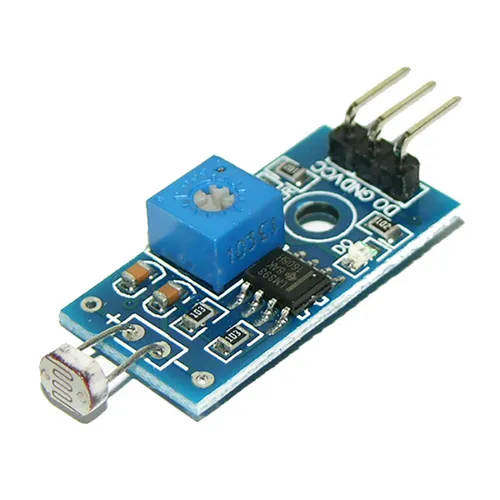
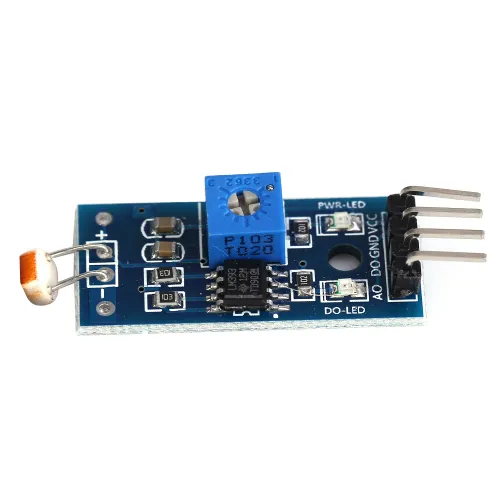
Товары только с отзывами (заменено 7 позиций), отзывы под картинками, количества, исправлены разъёмы

diff --git a/budget.html b/budget.html
@@ -65,7 +65,7 @@
   <div class="kpi"><b>396 ₽</b><span>3 садовых светильника на солнечной батарее</span></div>
   <div class="kpi"><b>132 ₽</b><span>цена одного светильника — дешевле любой сборки</span></div>
   <div class="kpi"><b>0 ₽</b><span>инструментов и проводов — ничего лишнего</span></div>
-  <div class="kpi"><b>1 132 ₽</b><span>если собирать мини-набор своими руками — дороже</span></div>
+  <div class="kpi"><b>1 298 ₽</b><span>если собирать мини-набор своими руками — дороже</span></div>
 </div>
 
 <h2>Два пути — и почему я рекомендую первый</h2>
@@ -81,7 +81,7 @@
   <tr>
     <td><b>Мини-набор своими руками</b></td>
     <td>панель 1 Вт, аккумулятор 18650, плата зарядки, датчик света, реле, светодиод, провода</td>
-    <td class="num">1 132 ₽</td>
+    <td class="num">1 298 ₽</td>
     <td>соединять по схеме, разбираться с реле</td>
     <td>дороже готового, требует аккуратности и понимания; часть деталей без проводов-перемычек не соединить</td>
   </tr>
@@ -159,18 +159,18 @@
 <table>
   <tr><th>Роль</th><th>Деталь</th><th>Цена</th><th>Доставка</th></tr>
   <tr><td>Панель</td><td>Мини солнечная панель 6 В 1 Вт 110*60 мм поликристаллическая для D</td><td class='num'>435 ₽</td><td class='num'>1 дн.</td></tr>
-<tr><td>Плата зарядки</td><td>Модуль заряда Li-ion аккумуляторов TP4056 (с защитой), гнездо Micr</td><td class='num'>65 ₽</td><td class='num'>1 дн.</td></tr>
+<tr><td>Плата зарядки</td><td>Модуль зарядки TP4056 USB Type-C с защитой,зарядное устройство для</td><td class='num'>64 ₽</td><td class='num'>1 дн.</td></tr>
 <tr><td>Аккумулятор</td><td>Аккумулятор 18650, плоский пин, Smartbuy, 3.7 V, 2200 мАч, 1 шт</td><td class='num'>146 ₽</td><td class='num'>1 дн.</td></tr>
 <tr><td>Держатель</td><td>Держатель 18650 холдер. Батарейный отсек 18650. Для 1шт под пайку.</td><td class='num'>99 ₽</td><td class='num'>5 дн.</td></tr>
-<tr><td>Датчик света</td><td>Датчик света на фоторезисторе, пороговый</td><td class='num'>108 ₽</td><td class='num'>1 дн.</td></tr>
-<tr><td>Реле</td><td>Модуль реле - 5 вольт 1 реле Ардуин</td><td class='num'>76 ₽</td><td class='num'>3 дн.</td></tr>
+<tr><td>Датчик света</td><td>Модуль фоторезистора</td><td class='num'>246 ₽</td><td class='num'>3 дн.</td></tr>
+<tr><td>Реле</td><td>Релейный модуль с опторазвязкой 5В 10A, 1 канал</td><td class='num'>105 ₽</td><td class='num'>1 дн.</td></tr>
 <tr><td>Светодиод</td><td>Компактный светодиодный USB светильник для ноутбука 3LED B41 теплы</td><td class='num'>79 ₽</td><td class='num'>1 дн.</td></tr>
 <tr><td>Провода</td><td>Провод соединительный мама-мама "Dupont", 10 см, 40 шт</td><td class='num'>124 ₽</td><td class='num'>1 дн.</td></tr>
-  <tr class="total"><td colspan="2">Итого</td><td class="num">1 132 ₽</td><td></td></tr>
+  <tr class="total"><td colspan="2">Итого</td><td class="num">1 298 ₽</td><td></td></tr>
 </table>
 <div class="box warn">
-  <b>Что тут честно сказать.</b> Без проводов-перемычек набор стоит 1 008 ₽ —
-  в тысячу влезает. С ними — 1 132 ₽, то есть <b>дороже трёх готовых светильников</b>
+  <b>Что тут честно сказать.</b> Без проводов-перемычек набор стоит 1 174 ₽ —
+  в тысячу влезает. С ними — 1 298 ₽, то есть <b>дороже трёх готовых светильников</b>
   (396 ₽). Плюс есть два подводных камня, которых нет у готового изделия:
   модуль реле на 5 В от аккумулятора 3,7 В может не срабатывать (нужен либо 3-вольтовый,
   либо питание от двух элементов), а панель на 1 Вт даёт очень мало — зимой почти ничего.
@@ -202,7 +202,7 @@
       и датчиком движения за 660 ₽: светит заметно сильнее, питается от своей панели.</li>
   <li><b>Нужна лампа внутри дома</b> — это уже полный вариант с аккумулятором на 7 А·ч
       и низковольтной лампой: 3 368 ₽, <a href="index.html">страница с расчётом и схемой</a>.</li>
-  <li><b>Просто хочется спаять/собрать самому</b> — смета выше 1 132 ₽, будет дороже
+  <li><b>Просто хочется спаять/собрать самому</b> — смета выше 1 298 ₽, будет дороже
       готового и с подводными камнями. Но если интересно именно собрать — это рабочий путь.</li>
 </ol>
 

diff --git a/index.html b/index.html
@@ -75,7 +75,7 @@
   Никакой пайки: все соединения на винтовых клеммах и болтах. Цены и сроки доставки — Ozon,
   на 19.09.2026.</p>
   <div class="kpis">
-    <div class="kpi"><b>3 368 ₽</b><span>весь комплект по этому списку</span></div>
+    <div class="kpi"><b>3 360 ₽</b><span>весь комплект по этому списку</span></div>
     <div class="kpi"><b>5 Вт</b><span>лампа; 6 часов после заката = 30 Вт·ч в сутки</span></div>
     <div class="kpi"><b>1.4 сут</b><span>автономия на АКБ 7 А·ч в режиме 6 часов</span></div>
     <div class="kpi"><b>30 Вт</b><span>панель даёт 52 Вт·ч в сутки в сентябре–октябре</span></div>
@@ -430,34 +430,18 @@
       </article>
 
       <article class="card">
-        <div class="card-img"><img src="img/wire_b.webp" alt="Провод ПуГВ 1.5 синий медный многожильный (3м)"></div>
-        <div class="rating">★3.0 · 2 отзыва</div>
+        <div class="card-img"><img src="img/cable.webp" alt="Кабель акустический двужильный 2х1,5 длина 3 метров; провода для автозвука; акус"></div>
+        <div class="rating">★4.9 · 9 568 отзывов</div>
         <div class="card-body">
-          <span class="role">Провод (минус)</span>
-          <h3>Провод ПуГВ 1.5 синий медный многожильный (3м)</h3>
-          <p class="specs">ПуГВ 1,5 мм², 3 м, синий</p>
-          <p class="note">Медный многожильный, 1,5 мм² хватает с запасом</p>
+          <span class="role">Кабель (плюс и минус)</span>
+          <h3>Кабель акустический двужильный 2х1,5 длина 3 метров; провода для автозвука; акустический провод ШВПМ</h3>
+          <p class="specs">Двужильный медный кабель 2×1,5 мм², 3 метра</p>
+          <p class="note">Один кабель вместо двух проводов: жилы идут на плюс и минус, сечение 1,5 мм² с запасом по току</p>
           <div class="row">
-            <span class="price">122 ₽</span>
-            <span class="days">доставка 7 дн.</span>
+            <span class="price">252 ₽</span>
+            <span class="days">доставка 1 дн.</span>
           </div>
-          <a class="btn" href="https://www.ozon.ru/product/provod-pugv-1-5-siniy-mednyy-mnogozhilnyy-3m-4998179474/" target="_blank" rel="noopener">Открыть на Ozon</a>
-        </div>
-      </article>
-
-      <article class="card">
-        <div class="card-img"><img src="img/wire_w.webp" alt="Провод ПуГВ 1,5 белый медный многожильный (3м)"></div>
-        <div class="rating">★4.0 · 1 отзыв</div>
-        <div class="card-body">
-          <span class="role">Провод (плюс)</span>
-          <h3>Провод ПуГВ 1,5 белый медный многожильный (3м)</h3>
-          <p class="specs">ПуГВ 1,5 мм², 3 м, белый</p>
-          <p class="note">Второй провод линии</p>
-          <div class="row">
-            <span class="price">138 ₽</span>
-            <span class="days">доставка 7 дн.</span>
-          </div>
-          <a class="btn" href="https://www.ozon.ru/product/provod-pugv-1-5-belyy-mednyy-mnogozhilnyy-3m-4998160469/" target="_blank" rel="noopener">Открыть на Ozon</a>
+          <a class="btn" href="https://www.ozon.ru/product/kabel-akusticheskiy-dvuzhilnyy-2h1-5-dlina-3-metrov-provoda-dlya-avtozvuka-akusticheskiy-2625432453/" target="_blank" rel="noopener">Открыть на Ozon</a>
         </div>
       </article>
 </div>
@@ -474,9 +458,8 @@
 <tr><td>Держатель предохранителя</td><td>Держатель предохранителя (разъём) флажковый с предохранителем 10А, 1 ш</td><td class='num'>99 ₽</td><td class='num'>1 дн.</td></tr>
 <tr><td>Набор предохранителей</td><td>Набор предохранителей флажковых для автомобиля 10шт 7,5-30 А</td><td class='num'>61 ₽</td><td class='num'>1 дн.</td></tr>
 <tr><td>Зажимы-крокодилы</td><td>Зажим &quot;крокодил&quot;, 30 А, длина 70 мм (комплект 2 шт.) / Зажимы крокодил</td><td class='num'>107 ₽</td><td class='num'>1 дн.</td></tr>
-<tr><td>Провод (минус)</td><td>Провод ПуГВ 1.5 синий медный многожильный (3м)</td><td class='num'>122 ₽</td><td class='num'>7 дн.</td></tr>
-<tr><td>Провод (плюс)</td><td>Провод ПуГВ 1,5 белый медный многожильный (3м)</td><td class='num'>138 ₽</td><td class='num'>7 дн.</td></tr>
-  <tr class="total"><td colspan="2">Итого</td><td class="num">3 368 ₽</td><td></td></tr>
+<tr><td>Кабель (плюс и минус)</td><td>Кабель акустический двужильный 2х1,5 длина 3 метров; провода для автоз</td><td class='num'>252 ₽</td><td class='num'>1 дн.</td></tr>
+  <tr class="total"><td colspan="2">Итого</td><td class="num">3 360 ₽</td><td></td></tr>
 </table>
 
 <h2>Сборка без пайки — по шагам</h2>
